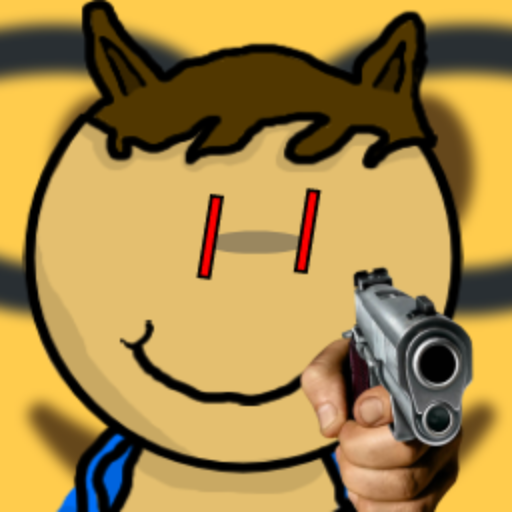
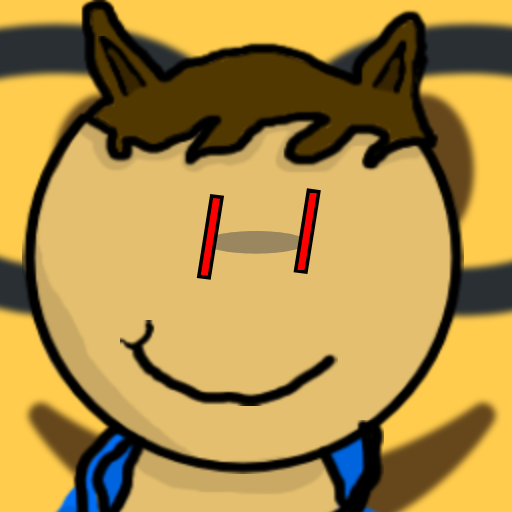
HowToEmail & Remove Gun From PFP

diff --git a/emailhowto.html b/emailhowto.html
@@ -1,0 +1,110 @@
+<!DOCTYPE html>
+<html lang="en">
+<head>
+    <meta charset="UTF-8">
+    <meta http-equiv="X-UA-Compatible" content="IE=edge">
+    <meta name="viewport" content="width=device-width, initial-scale=1.0">
+    <title>Email Usage - Bluekid</title>
+
+    <style>
+        @import url('https://fonts.googleapis.com/css2?family=Nunito&display=swap');
+
+        * {
+            font-family: 'Nunito', sans-serif;
+        }
+
+        h1 {
+            margin: 0;
+            padding: 0;
+        }
+        p {
+            margin: 0;
+            padding: 0;
+        }
+        h2 {
+            margin: 0;
+            padding: 0;
+        }
+        h3 {
+            margin: 0;
+            padding: 0;
+        }
+
+        input {
+            border-radius: 15px;
+            padding: 5px;
+            width: 40vh;
+
+            transition-duration: 500ms;
+        }
+        input:focus {
+            scale: 1.025;
+            rotate: 2deg;
+            background-color: rgb(173, 173, 173);
+        }
+        button {
+            border-radius: 15px;
+            padding: 5px;
+
+            cursor:pointer;
+            transition-duration: 500ms;
+        }
+        button:hover {
+            scale: 1.1;
+            rotate: 5deg;
+
+            background-color: rgb(173, 173, 173);
+        }
+
+    </style>
+</head>
+<body>
+    <button onclick="history.back()">Back</button>
+    <h1>Need help with email?</h1>
+    <p>Alrighty, here are some steps!</p>
+    <br>
+    <h2>School users</h2>
+    <hr>
+    <p>If you are in school and want to use Bluekid, every school district has a different way of doing this. Here are some school districts I know (or online searched):</p>
+    <br>
+    <h3>Liberty Union:</h3>
+    <ol>
+        <li>Type what you use to login to your chrombook/machine</li>
+        <li>Add @libertyunion.org at the end of your email.</li>
+    </ol>
+
+    <h3>South West Licking:</h3>
+    <ol>
+        <li>Type what you use to login to your chrombook/machine</li>
+        <li>Add @swl.k12.oh.us at the end of your email.</li>
+    </ol>
+
+    <h3>Others:</h3>
+    <ol>
+        <li>Type what you use to login to your chrombook/machine</li>
+        <li>Add your school's website url at the end of your email. (ex. name@school.domain)</li>
+    </ol>
+    <br>
+    <h2>Last step</h2>
+    <hr>
+    <p>When you know your email, you can enter it in this box and then click the button below to get sent to the sign up page. (If you already have an account you can click the login button)</p>
+    <br>
+    <input type="email" id="email" placeholder="Follow the steps above if you dont know what to do here!">
+    <button onclick="signup()">Sign up</button>
+    <button onclick="login()">Login</button>
+
+    <script>
+        function signup() {
+            if (document.getElementById("email").value.length > 0) {
+                location.href = "./auth_pages/signup.html?email=" + document.getElementById("email").value;
+            }
+        }
+
+        function login() {
+            if (document.getElementById("email").value.length > 0) {
+                location.href = "./auth_pages/login.html?email=" + document.getElementById("email").value;
+            }
+        }
+    </script>
+</body>
+</html>

diff --git a/auth_pages/signup.html b/auth_pages/signup.html
@@ -195,6 +195,7 @@
         <div style="display: flex;">
             <img draggable="false" src="../assets/user-solid.svg" width="30" style="padding-right: 5px;">
             <input placeholder="Enter email..." type="email" rows="1" cols="30" spellcheck="false" style="resize: none;" id="email">
+            <img width="26" draggable="false" style="padding-left: 5px; cursor: pointer;" src="../assets/qmark.svg" onclick="location.href = '../emailhowto.html'">
         </div>
         <div style="display: flex;">
             <img src="../assets/pass.svg" width="30" draggable="false" style="padding-right: 5px;">
@@ -240,6 +241,13 @@
         var hasClickedSignUp = false;
 
         window.onload = function() {
+
+            const urlParams = new URLSearchParams(window.location.search);
+            if (urlParams.get('email')) {
+                console.log("email included");
+                document.getElementById("email").value = urlParams.get('email');
+            }
+
             if (localStorage.getItem("isLoggedIn") === "true") {
                 document.getElementById("confirm_password").disabled = true;
                 document.getElementById("password").disabled = true;
@@ -313,7 +321,7 @@
                     if (email.includes("libertyunion")) {
                         localStorage.setItem("isSchoolEmail", true);
                         alert("You have successfully signed up! Because you are a liberty union user, no verification is needed!");
-                        window.location.href = "../profile.html";
+                        window.location.href = "../login.html";
                         return;
                     }
                     localStorage.setItem("isSchoolEmail", false);

diff --git a/auth_pages/login.html b/auth_pages/login.html
@@ -161,6 +161,7 @@
         <div style="display: flex;">
             <img draggable="false" src="../assets/user-solid.svg" width="30" style="padding-right: 5px;">
             <input placeholder="Enter email..." type="email" rows="1" cols="30" spellcheck="false" style="resize: none;" id="email">
+            <img width="26" draggable="false" style="padding-left: 5px; cursor: pointer;" src="../assets/qmark.svg" onclick="location.href = '../emailhowto.html'">
         </div>
         <div style="display: flex;">
             <img src="../assets/pass.svg" width="30" draggable="false" style="padding-right: 5px;">
@@ -191,6 +192,12 @@
     </script>
     <script>
         window.onload = function() {
+            const urlParams = new URLSearchParams(window.location.search);
+            if (urlParams.get('email')) {
+                console.log("email included");
+                document.getElementById("email").value = urlParams.get('email');
+            }
+
             if (localStorage.getItem("email")) {
                 document.getElementById("email").value = localStorage.getItem("email");
             }

diff --git a/about.html b/about.html
@@ -101,7 +101,7 @@
     <div id="AboutTextArea" style="display: flex; margin: 5px;">
         <p style="border:5px solid black; border-radius: 20px; padding: 10px; background-color:#00c3ff; margin-right: 10px;">Hello! I'm FunFoxRR. I am the creator of Bluekid. I wanted to make Bluekid because I was so inspired from <a href="https://blooket.com">Blooket</a> and <a href="https://kahoot.com">Kahoot</a> that I decieded to create my own version.
             All servers are using Firebase. <span style="background-color: rgb(255, 0, 0);">If any servers dont work or are down, please <a href="mailto:dldilley01@gmail.com">Contact me</a> and I will look into it. (All the servers I pay for are free. If it goes beond the limit, it might crash and not work.)</span></p>
-        <img src="./assets/pfp512.png" draggable="false" style="user-select:none; width:250px; border:5px solid black; border-radius: 50px;">
+        <img src="./assets/pfp512.png" style="user-select:none; width:250px; border:5px solid black; border-radius: 50px;">
     </div>
 </body>
 </html>

diff --git a/auth_pages/forgot.html b/auth_pages/forgot.html
@@ -161,6 +161,7 @@
         <div style="display: flex;">
             <img draggable="false" src="../assets/user-solid.svg" width="30" style="padding-right: 5px;">
             <input placeholder="Enter email..." type="email" rows="1" cols="30" spellcheck="false" style="resize: none;" id="email">
+            <img width="26" draggable="false" style="padding-left: 5px; cursor: pointer;" src="../assets/qmark.svg" onclick="location.href = '../emailhowto.html'">
         </div>
         <button id="login" onclick="passwordReset()" type="button">Send password reset</button>
         <a href="./login.html" style="text-align:center; text-decoration: underline; color: black;">Back to login page</a>

diff --git a/index.js b/index.js
@@ -7,7 +7,9 @@ window.onload = (() => {
 });
 
 firebase.auth().onAuthStateChanged((user) => {
-    console.log(user.uid)
+    if (user) {
+        console.log(user.uid)
+    }
 });
 
 document.cookie = "Set-Cookie: promo_shown=1; SameSite=None; Secure;"
